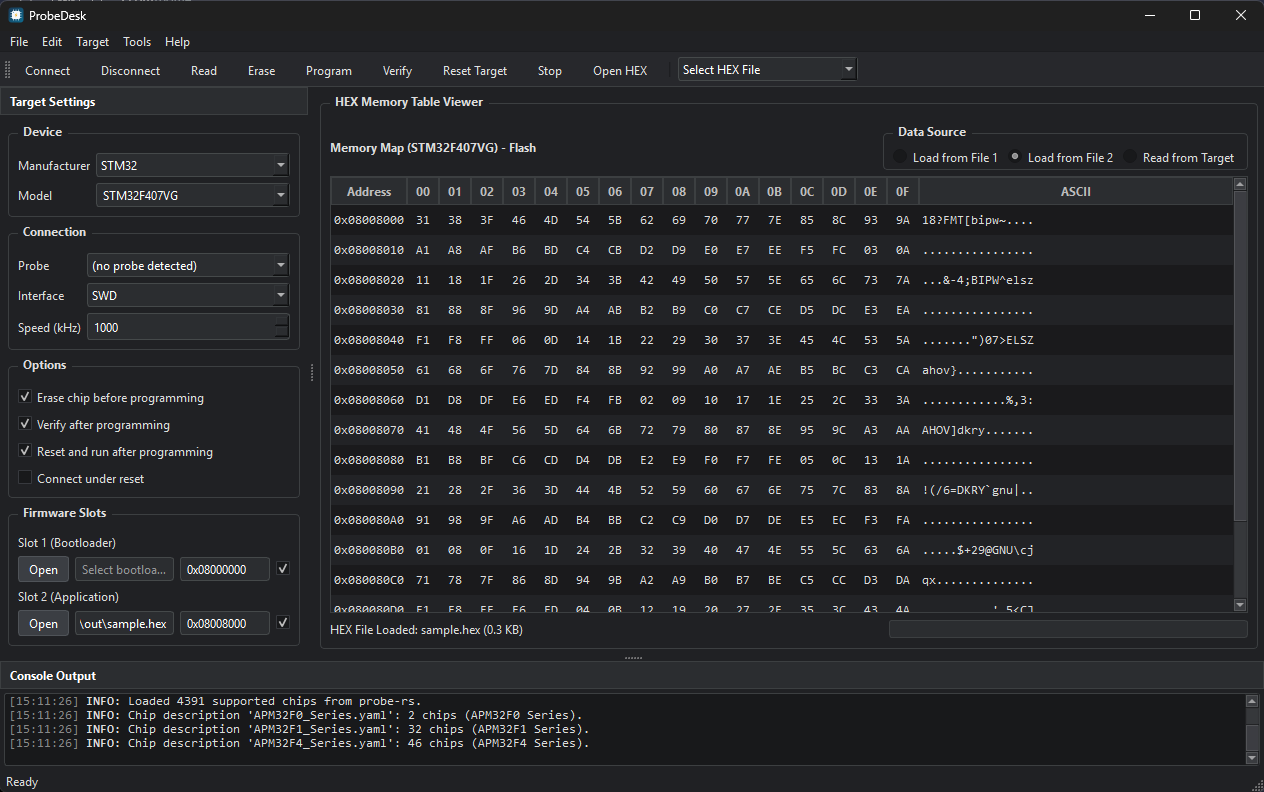
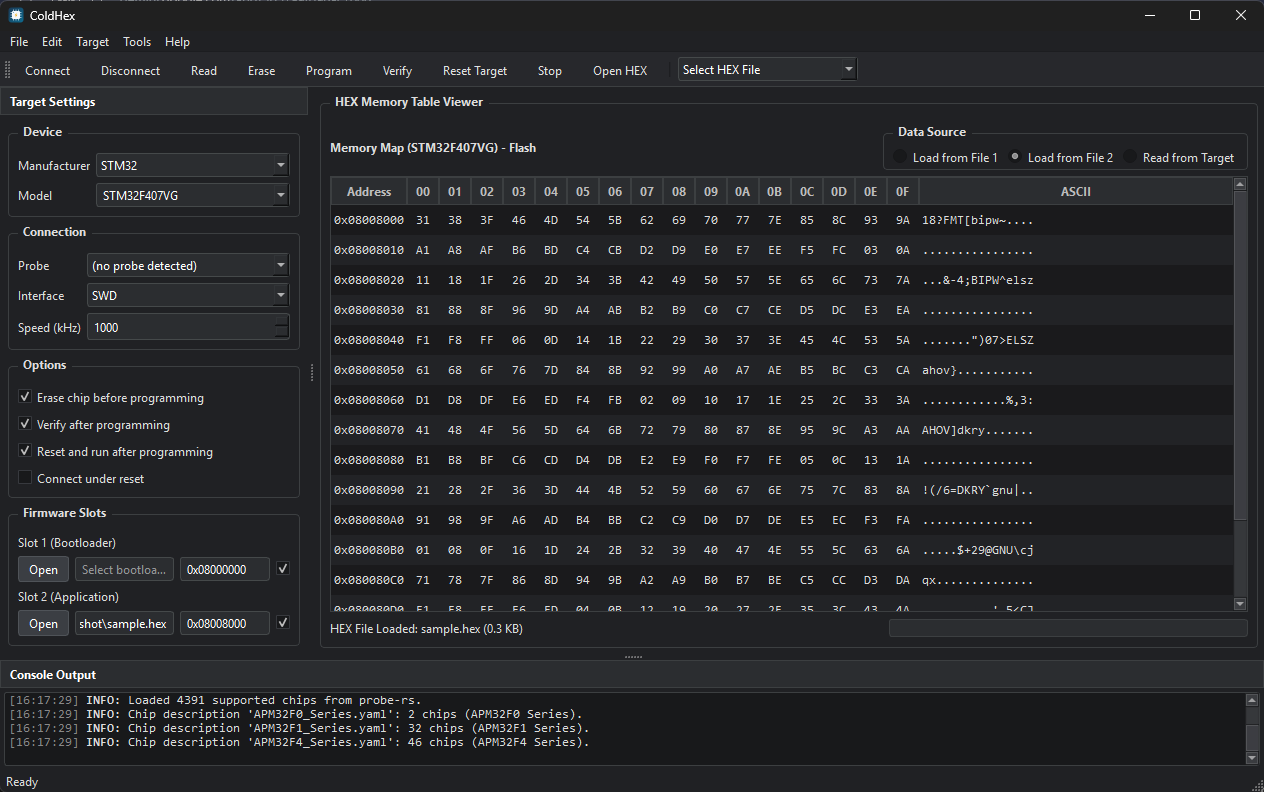
refactor: rename the project to ColdHex

diff --git a/src/ui/MainWindow.cpp b/src/ui/MainWindow.cpp
@@ -110,7 +110,7 @@ MainWindow::MainWindow(QWidget *parent)
             dialog->deleteLater();
         }
     });
-    appendLog("INFO", "ProbeDesk v0.1 started.");
+    appendLog("INFO", "ColdHex v0.1 started.");
     updateUiState();
 }
 
@@ -901,7 +901,7 @@ void MainWindow::onReadTargetTriggered() {
 
 void MainWindow::onSaveLogTriggered() {
     const QString suggested = QDir(QStandardPaths::writableLocation(QStandardPaths::DocumentsLocation))
-                                  .filePath("probedesk-log.txt");
+                                  .filePath("coldhex-log.txt");
     const QString file = QFileDialog::getSaveFileName(this, "Save Log", suggested, "Text (*.txt);;All Files (*.*)");
     if (file.isEmpty()) return;
 
@@ -963,8 +963,8 @@ void MainWindow::dropEvent(QDropEvent* event) {
 }
 
 void MainWindow::onAboutTriggered() {
-    QMessageBox::about(this, "About ProbeDesk",
-        QString("<h3>ProbeDesk %1</h3>"
+    QMessageBox::about(this, "About ColdHex",
+        QString("<h3>ColdHex %1</h3>"
                 "<p>Flash and manage ARM Cortex-M microcontrollers through ST-Link, J-Link and CMSIS-DAP probes. "
                 "Flashing is done by <a href='https://probe.rs'>probe-rs</a>.</p>"
                 "<p>Licensed under the GNU LGPL v3. Built with Qt %2.</p>")

diff --git a/src/engine/SystemCheck.cpp b/src/engine/SystemCheck.cpp
@@ -6,7 +6,7 @@ namespace {
 
 QString driverAdvice(const QString& family, bool windows) {
     if (!windows) {
-        return "Install the probe-rs udev rules (the ProbeDesk .deb does this), then unplug and re-plug the probe "
+        return "Install the probe-rs udev rules (the ColdHex .deb does this), then unplug and re-plug the probe "
                "and log out and in again. Your user must be allowed to access USB debug probes.";
     }
     if (family == "ST-Link") {
@@ -41,8 +41,8 @@ QList<CheckItem> SystemCheck::evaluate(const Input& in) {
                       (in.probeRsVersion.isEmpty() ? QString() : in.probeRsVersion + "\n") + in.probeRsPath});
     } else {
         items.append({CheckItem::Status::Error, "probe-rs not found",
-                      "ProbeDesk uses probe-rs to talk to the probe. Install probe-rs (probe.rs/docs/getting-started/installation) "
-                      "so that it is on PATH, or place probe-rs next to the ProbeDesk program."});
+                      "ColdHex uses probe-rs to talk to the probe. Install probe-rs (probe.rs/docs/getting-started/installation) "
+                      "so that it is on PATH, or place probe-rs next to the ColdHex program."});
     }
 
     if (in.usbProbes.isEmpty()) {

diff --git a/src/engine/ProbeRsLocator.h b/src/engine/ProbeRsLocator.h
@@ -3,12 +3,12 @@
 #include <QString>
 #include <QStringList>
 
-// Finds the probe-rs executable. A copy shipped with ProbeDesk (next to the program, or in
-// ../lib/probedesk for the Linux package) wins over one on PATH, so an installed package
+// Finds the probe-rs executable. A copy shipped with ColdHex (next to the program, or in
+// ../lib/coldhex for the Linux package) wins over one on PATH, so an installed package
 // works without installing anything else.
 class ProbeRsLocator {
 public:
-    // `appDir` is the folder of the ProbeDesk executable, `homeDir` the user's home folder.
+    // `appDir` is the folder of the ColdHex executable, `homeDir` the user's home folder.
     // Returns the full path of the first match, or an empty string.
     static QString find(const QString& appDir, const QString& homeDir);
 

diff --git a/src/engine/ProbeRsEngine.cpp b/src/engine/ProbeRsEngine.cpp
@@ -23,7 +23,7 @@ ProbeRsEngine::ProbeRsEngine(QObject* parent)
             this, &ProbeRsEngine::onChipListFinished);
     connect(m_chipListProcess, &QProcess::errorOccurred, this, &ProbeRsEngine::onChipListErrorOccurred);
 
-    // Prefer a probe-rs shipped with ProbeDesk, then PATH, then the installer's default folder.
+    // Prefer a probe-rs shipped with ColdHex, then PATH, then the installer's default folder.
     const QString found = ProbeRsLocator::find(QCoreApplication::applicationDirPath(), QDir::homePath());
     if (!found.isEmpty()) m_executablePath = found;
 }

diff --git a/src/app/main.cpp b/src/app/main.cpp
@@ -7,10 +7,10 @@
 int main(int argc, char *argv[]) {
     QApplication app(argc, argv);
 
-    app.setApplicationName("ProbeDesk");
-    app.setApplicationVersion(PROBEDESK_VERSION);
-    app.setWindowIcon(QIcon(":/icons/probedesk.png"));
-    app.setOrganizationName("ProbeDesk Project");
+    app.setApplicationName("ColdHex");
+    app.setApplicationVersion(COLDHEX_VERSION);
+    app.setWindowIcon(QIcon(":/icons/coldhex.png"));
+    app.setOrganizationName("ColdHex Project");
 
     // Fusion style base
     app.setStyle(QStyleFactory::create("Fusion"));

diff --git a/tests/tst_usbscanner.cpp b/tests/tst_usbscanner.cpp
@@ -59,8 +59,8 @@ private slots:
     }
 
     void locatorSearchesLibFolderOfLinuxPackage() {
-        const QStringList dirs = ProbeRsLocator::candidateDirs("/opt/probedesk/bin", "/home/u");
-        QVERIFY(dirs.contains("/opt/probedesk/lib/probedesk"));
+        const QStringList dirs = ProbeRsLocator::candidateDirs("/opt/coldhex/bin", "/home/u");
+        QVERIFY(dirs.contains("/opt/coldhex/lib/coldhex"));
     }
 };
 

diff --git a/src/ui/SystemCheckDialog.cpp b/src/ui/SystemCheckDialog.cpp
@@ -33,7 +33,7 @@ bool SystemCheckDialog::runCheck() {
 }
 
 QString SystemCheckDialog::toHtml(const QList<CheckItem>& items) {
-    QString html = "<h3>What ProbeDesk found on this computer</h3>";
+    QString html = "<h3>What ColdHex found on this computer</h3>";
     for (const CheckItem& item : items) {
         QString icon;
         QString color;

diff --git a/src/ui/SystemCheckDialog.h b/src/ui/SystemCheckDialog.h
@@ -5,7 +5,7 @@
 
 class QTextBrowser;
 
-// Shows what ProbeDesk found on this computer (probe-rs, USB probes, drivers) and what to do
+// Shows what ColdHex found on this computer (probe-rs, USB probes, drivers) and what to do
 // about problems. It never changes the system.
 class SystemCheckDialog : public QDialog {
     Q_OBJECT

diff --git a/src/engine/ProbeRsLocator.cpp b/src/engine/ProbeRsLocator.cpp
@@ -6,7 +6,7 @@ QStringList ProbeRsLocator::candidateDirs(const QString& appDir, const QString& 
     QStringList dirs;
     dirs << appDir
          << QDir::cleanPath(appDir + "/probe-rs")
-         << QDir::cleanPath(appDir + "/../lib/probedesk");
+         << QDir::cleanPath(appDir + "/../lib/coldhex");
     return dirs;
 }
 

diff --git a/README.md b/README.md
@@ -1,13 +1,13 @@
-# ProbeDesk
+# ColdHex
 
-[![Build and package](https://github.com/hakanyz/probedesk/actions/workflows/build.yml/badge.svg)](https://github.com/hakanyz/probedesk/actions/workflows/build.yml)
+[![Build and package](https://github.com/hakanyz/coldhex/actions/workflows/build.yml/badge.svg)](https://github.com/hakanyz/coldhex/actions/workflows/build.yml)
 [![License: LGPL v3](https://img.shields.io/badge/license-LGPL--3.0-blue.svg)](LICENSE)
 
 A desktop tool to flash and manage ARM Cortex-M microcontrollers over **ST-Link**, **J-Link** and
 **CMSIS-DAP** probes. It is vendor independent: STM32, GD32, Geehy APM32, TI, NXP, Nordic and
 every other chip supported by [probe-rs](https://probe.rs), in one window.
 
-![ProbeDesk main window](docs/screenshot.png)
+![ColdHex main window](docs/screenshot.png)
 
 > **Status: beta.** The logic is covered by automated tests, but programming has so far seen only
 > limited testing on real hardware. Please report problems through the issue tracker.
@@ -24,7 +24,7 @@ every other chip supported by [probe-rs](https://probe.rs), in one window.
   running operation. Erase / verify / reset after programming are optional.
 - **Reliable connections** – SWD or JTAG, adjustable speed, *connect under reset*, and an automatic
   speed reduction that resumes the sequence at the step that failed.
-- **System Check** – on start-up ProbeDesk looks for probe-rs, connected probes and their drivers and
+- **System Check** – on start-up ColdHex looks for probe-rs, connected probes and their drivers and
   tells you what is missing and how to fix it (Help > System Check).
 - **Memory viewer** – inspect a HEX/BIN/ELF file or the data read back from the chip.
 - **Self-contained packages** – probe-rs is included, and so are the Qt libraries on Windows (on Ubuntu apt installs them); nothing else to install
@@ -33,14 +33,14 @@ every other chip supported by [probe-rs](https://probe.rs), in one window.
 ## Install
 
 Download the package for your system from the
-[Releases](https://github.com/hakanyz/probedesk/releases) page.
+[Releases](https://github.com/hakanyz/coldhex/releases) page.
 
 | System | File | How |
 |---|---|---|
-| Windows 10/11 (64-bit) | `probedesk-<version>-win64.exe` | Run the installer |
-| Windows 10/11 (64-bit) | `probedesk-<version>-win64.zip` | Unpack anywhere, start `bin\probedesk.exe` |
-| Ubuntu 22.04 (64-bit) | `probedesk_<version>_amd64.deb` | `sudo apt install ./probedesk_<version>_amd64.deb` |
-| Linux (64-bit) | `probedesk-<version>-Linux.tar.gz` | Unpack, start `usr/bin/probedesk` (needs the Qt 6 libraries) |
+| Windows 10/11 (64-bit) | `coldhex-<version>-win64.exe` | Run the installer |
+| Windows 10/11 (64-bit) | `coldhex-<version>-win64.zip` | Unpack anywhere, start `bin\coldhex.exe` |
+| Ubuntu 22.04 (64-bit) | `coldhex_<version>_amd64.deb` | `sudo apt install ./coldhex_<version>_amd64.deb` |
+| Linux (64-bit) | `coldhex-<version>-Linux.tar.gz` | Unpack, start `usr/bin/coldhex` (needs the Qt 6 libraries) |
 
 ### Probe drivers
 
@@ -64,7 +64,7 @@ If a driver is missing, **Help > System Check** says so.
 ## Chips that probe-rs does not know
 
 Generate a chip description from the vendor's CMSIS-Pack with probe-rs'
-[`target-gen`](https://github.com/probe-rs/probe-rs/releases) and add it in ProbeDesk:
+[`target-gen`](https://github.com/probe-rs/probe-rs/releases) and add it in ColdHex:
 
 ```
 target-gen pack <vendor>.pack <output-folder>
@@ -90,7 +90,7 @@ The program looks for `probe-rs` next to itself, then on `PATH`. Install it from
 ### Packages
 
 ```
-cmake -S . -B build -DCMAKE_BUILD_TYPE=Release -DPROBEDESK_PROBE_RS_DIR=<folder with probe-rs>
+cmake -S . -B build -DCMAKE_BUILD_TYPE=Release -DCOLDHEX_PROBE_RS_DIR=<folder with probe-rs>
 cmake --build build
 cd build && cpack
 ```
@@ -134,7 +134,7 @@ Please make sure `ctest` passes and describe what you changed and how you tested
 
 ## License
 
-ProbeDesk is licensed under the [GNU Lesser General Public License v3.0](LICENSE) (the GPL text it
+ColdHex is licensed under the [GNU Lesser General Public License v3.0](LICENSE) (the GPL text it
 refers to is in [COPYING](COPYING)). Third-party components – Qt (LGPL v3), probe-rs (MIT or
 Apache-2.0) and the generated chip descriptions – are listed in
 [packaging/THIRD_PARTY_NOTICES.md](packaging/THIRD_PARTY_NOTICES.md).

diff --git a/packaging/THIRD_PARTY_NOTICES.md b/packaging/THIRD_PARTY_NOTICES.md
@@ -1,11 +1,11 @@
-# Third-party software shipped with ProbeDesk
+# Third-party software shipped with ColdHex
 
-ProbeDesk's installers include the following components. Their licence texts are
+ColdHex's installers include the following components. Their licence texts are
 available from the projects listed here or in this package.
 
 ## Qt 6 (GNU LGPL v3)
 
-ProbeDesk uses the Qt toolkit (Qt Core, Gui, Widgets and the libraries they need) under the
+ColdHex uses the Qt toolkit (Qt Core, Gui, Widgets and the libraries they need) under the
 terms of the GNU Lesser General Public License version 3. Qt is © The Qt Company Ltd. and
 other contributors, and is dynamically linked: the Qt libraries are separate files
 (`Qt6*.dll` / `libQt6*.so`) that you may replace with another build of the same Qt version.

diff --git a/resources/chips/README.md b/resources/chips/README.md
@@ -1,6 +1,6 @@
 # Bundled chip descriptions
 
-Every `*.yaml` file in this folder is built into the ProbeDesk executable and loaded at
+Every `*.yaml` file in this folder is built into the ColdHex executable and loaded at
 startup, so the chips in it are available without adding files by hand.
 
 The files are probe-rs chip descriptions generated from vendor CMSIS-Packs:
